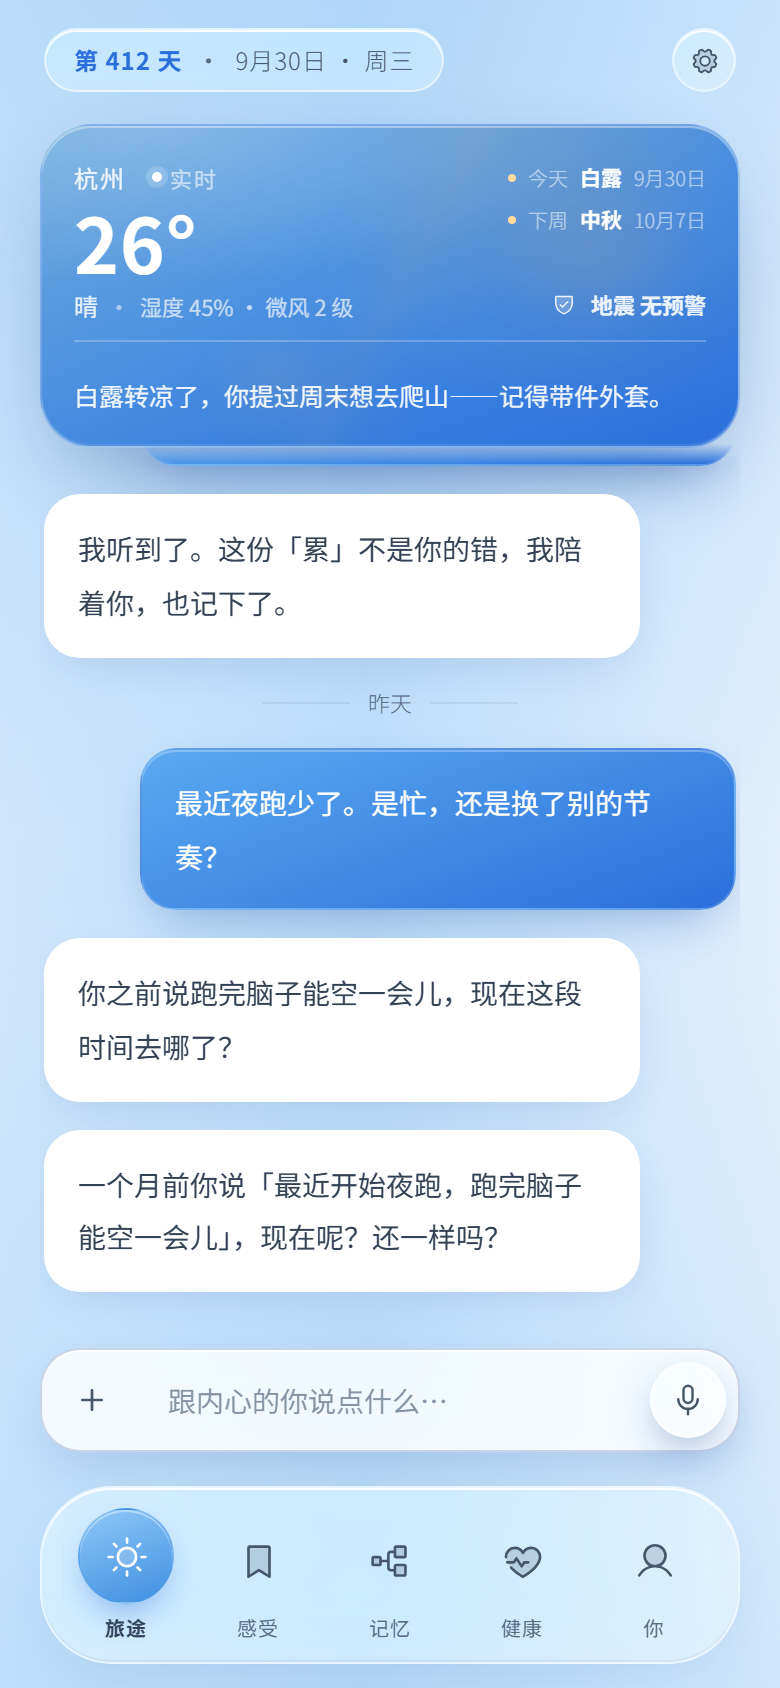
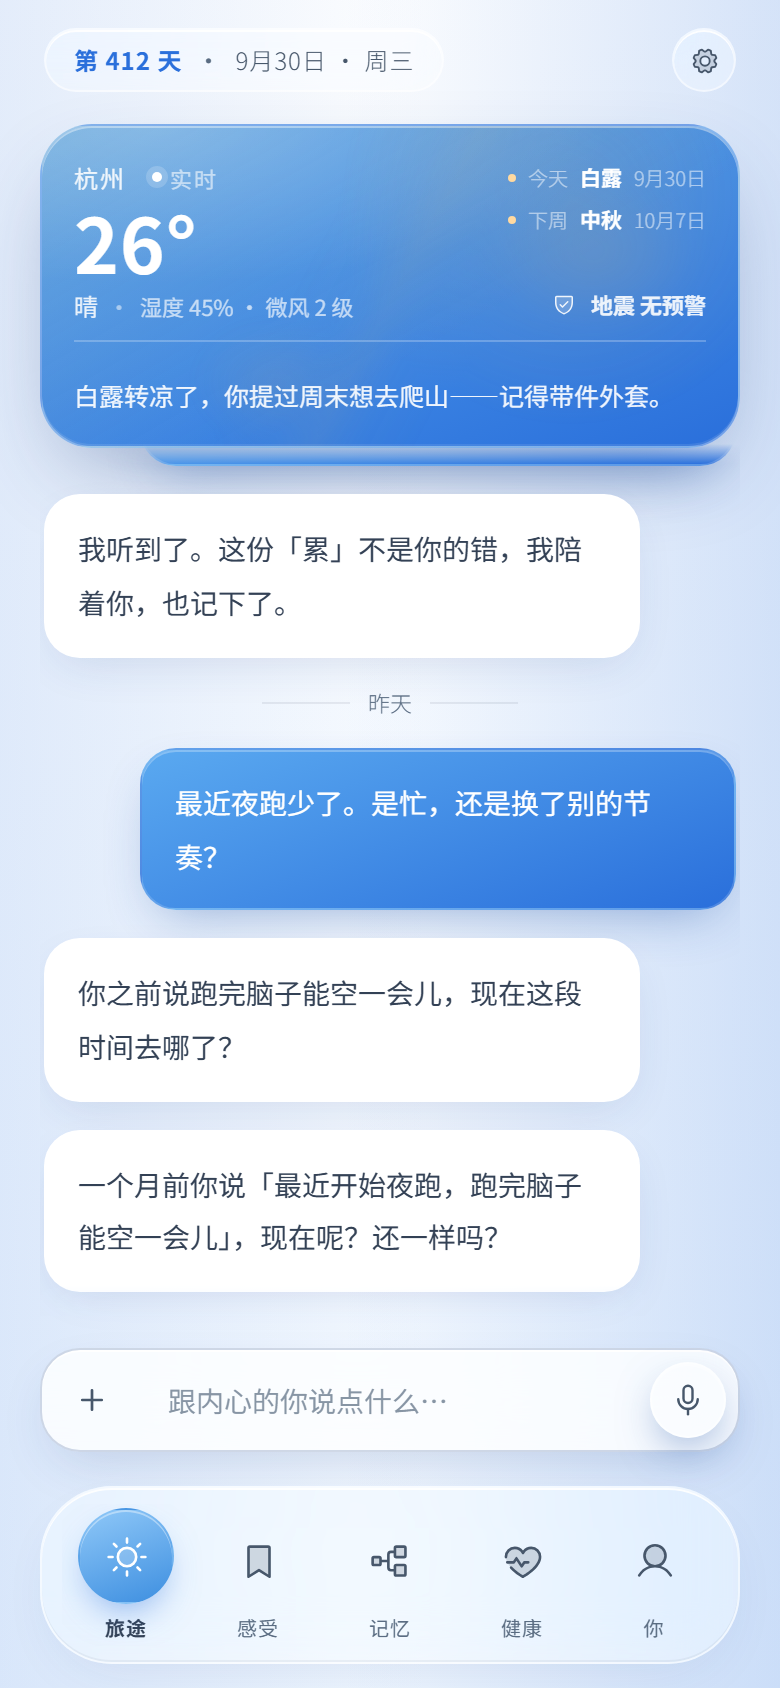
docs: 重拍 9 张截图 + README 重写（图标系统/语音/回到底部/真实数据）

diff --git a/README.md b/README.md
@@ -5,9 +5,9 @@
 > 一个 AI 陪伴式个人档案：每天跟它说说话，它把你的情绪、事件、关系沉淀成一份只属于你的档案。
 
 <p align="center">
-  <img src="docs/screenshots/01-home.png" width="250" alt="今日问候" />
+  <img src="docs/screenshots/01-home.png" width="250" alt="旅途" />
   <img src="docs/screenshots/02-chat.png" width="250" alt="说出你的情绪" />
-  <img src="docs/screenshots/04-mindmap.png" width="250" alt="记忆图谱" />
+  <img src="docs/screenshots/04-mindmap.png" width="250" alt="我懂你多少" />
 </p>
 
 <p align="center">
@@ -19,7 +19,7 @@
   <br /><br />
   <img alt="prototype" src="https://img.shields.io/badge/prototype-single%20file-2A6FDB?style=flat-square" />
   <img alt="deps" src="https://img.shields.io/badge/dependencies-0-4E9F71?style=flat-square" />
-  <img alt="privacy" src="https://img.shields.io/badge/data-local%20only-B7791F?style=flat-square" />
+  <img alt="data" src="https://img.shields.io/badge/data-local%20only-B7791F?style=flat-square" />
   <img alt="license" src="https://img.shields.io/badge/license-MIT-555?style=flat-square" />
 </p>
 
@@ -27,20 +27,20 @@
 
 ## 三十秒看懂
 
-- **它是什么**：一个情绪与记忆档案。打开就是一句「今天过得怎么样？」——低压力地让你开口，而不是扔一张空白表单。
+- **它是什么**：一个情绪与记忆档案。打开就是「第 412 天 · 今天」，低压力地让你开口，而不是扔一张空白表单。
 - **它特别在哪**：不追打卡、不做绩效。它记得你说过的事，也记得**三个月前的你和现在的你不一样**。
-- **它怎么跑**：一个 HTML 文件，双击就开，零依赖、零网络请求，数据只存在你自己的浏览器里。
+- **它怎么跑**：一个 HTML 文件，双击就开，零依赖、零构建；数据只在你自己的浏览器里。
 
 ## 界面
 
 <table>
   <tr>
-    <td align="center"><img src="docs/screenshots/01-home.png" width="180" /><br /><sub><b>今天</b><br />天气 · 今日简报 · 感恩</sub></td>
+    <td align="center"><img src="docs/screenshots/01-home.png" width="180" /><br /><sub><b>旅途</b><br />天气 · 对话 · 语音</sub></td>
     <td align="center"><img src="docs/screenshots/02-chat.png" width="180" /><br /><sub><b>说出你的情绪</b><br />说完还会追问「更准的说法」</sub></td>
     <td align="center"><img src="docs/screenshots/03-feel.png" width="180" /><br /><sub><b>感受</b><br />从记录里长出规律</sub></td>
   </tr>
   <tr>
-    <td align="center"><img src="docs/screenshots/04-mindmap.png" width="180" /><br /><sub><b>记忆图谱</b><br />你告诉我一件事，就长出一个节点</sub></td>
+    <td align="center"><img src="docs/screenshots/04-mindmap.png" width="180" /><br /><sub><b>我懂你多少</b><br />自适应居中，节点带具象图标</sub></td>
     <td align="center"><img src="docs/screenshots/05-sky.png" width="180" /><br /><sub><b>情绪星夜</b><br />说出口的感觉点亮一颗星</sub></td>
     <td align="center"><img src="docs/screenshots/06-settings.png" width="180" /><br /><sub><b>设置</b><br />导师人格 · 自带模型 · 档案</sub></td>
   </tr>
@@ -55,42 +55,49 @@
 
 ## 原型里已有什么
 
-**记录与回访**
+**记录与对话**
 
 | | |
 |---|---|
-| **今日简报** | 每天第一次打开，不等你点，直接把简报推进聊天框（同一天不重复） |
-| **记录会留下** | 聊天 / 情绪 / 洞察写进浏览器本地（`la.messages / la.emotions / la.insights / la.profile`，带 schemaVersion 与迁移），刷新不丢；写不进去会明说「这次记录没存上」 |
-| **时间回访** | 7 天 / 30 天后自动回问一句「三周前你说……现在呢？」 |
-| **沉默也记录** | 连续 5 天没打开，不催不推，只在档案里写一行「这周你来得少，我不问，但记着」 |
+| **今日简报** | 每天第一次打开自动出现，不用点按钮 |
+| **一次只回一条** | 回复是「先接住情绪 + 一句具体引导」，两段合成一条，不刷屏 |
+| **语音消息** | 按住说话（长按输入框也行）；松手后可播放、拖动、丢弃；长按进入的发完自动回键盘，点语音键进入的留在语音模式 |
+| **添加入口** | `+` 弹出毛玻璃菜单：上传图片 / 上传文件 / 拍照 |
+| **回到底部** | 上滑后浮出一个圆形箭头，点一下平滑回底；与撤销条互斥、同位置同高 |
+| **记录会留下** | 聊天 / 情绪 / 洞察写进 localStorage，刷新不丢；写不进去会明说 |
 
-**理解与洞察**
-
-| | |
-|---|---|
-| **情绪粒度** | 说「憋屈」时再追问一句「更准的说法」——憋屈 / 不甘 / 被忽视 / 心里堵…共 144 词，选中即改写这次记录 |
-| **双时间戳** | 图谱节点挂着「3 个月」：点开看「当时的我 vs 现在的我」，首条与最近一条说法并排 |
-| **跨节点洞察** | 情绪桶 × 反复出现的话题交叉——「你反复提的工作，和你最近的低落，可能不是两件事」 |
-| **信念矛盾** | 发现「上个月说喜欢 X、这周说讨厌 X」，把变化摆出来请你确认，并标注证据条数与把握度 |
-| **自我距离化** | 反刍时引导「如果是你朋友坐在对面，你会怎么跟他说」 |
-| **CBT 思维陷阱** | 温和点出「灾难化 / 以偏概全 / 读心」，给一个更平衡的说法（同会话最多 2 次，不说教） |
-
-**回望与仪式**
+**理解与回望**
 
 | | |
 |---|---|
-| **导师人格** | 复盘信可选斯多葛 / 温柔教练 / 犀利诤友，同一周记录三种语气（Mindsera 做法） |
-| **周复盘信** | 周日 20:00 后第一次打开，把本周 5~10 条记录合成一段回望，不用模型 |
-| **年度报告** | Spotify Wrapped 式的一年：说过多少句、来过多少天、落下几颗星、第一次开口是哪天 |
-| **时间胶囊** | 写给一年后的自己，封存 365 天，到点解锁 |
-| **感恩练习** | 今日简报里一条「今天让你感激的一件小事」，写下来就存进档案 |
-| **危机保护** | 检测到自伤 / 危机表达时，给求助热线，不装心理咨询师 |
+| **情绪粒度** | 说「憋屈」时再追问一句「更准的说法」——144 词按四象限组织，选中即改写记录 |
+| **双时间戳** | 图谱节点挂着「3 个月」：点开看「当时的我 vs 现在的我」 |
+| **跨节点洞察** | 情绪桶 × 反复出现的话题交叉，主动说「你反复提的工作，和你最近的低落，可能不是两件事」 |
+| **信念矛盾** | 发现「上个月说喜欢 X、这周说讨厌 X」，把变化摆出来，标注证据条数与把握度 |
+| **自我距离化 + CBT** | 反刍时引导「如果是你朋友坐在对面」，并温和点出灾难化 / 以偏概全 |
+| **导师人格** | 斯多葛 / 温柔教练 / 犀利诤友，同一周记录三种语气 |
+| **周复盘信** | 周日 20:00 后第一次打开，把本周记录合成一段回望 |
+| **沉默也记录** | 连续 5 天没打开，不催不推，只在档案里写一行 |
+| **年度报告 + 时间胶囊** | Wrapped 式一年统计；写给一年后的自己，365 天解锁 |
+| **感恩练习** | 今日简报里一条「今天让你感激的一件小事」 |
 
-**自带模型（可选）**
+**真实数据**
 
-选服务商 → Key 前缀认厂商 → 接口地址与模型自动带出 → 「测试连接」可验证；下方有「余额 + 调用次数」。只用于复盘这类生成型内容，**对话永远走本机规则**；无配置 / 401 / 跨域 / 超时都会回落本地模板。
+| | |
+|---|---|
+| **地震提醒** | 轮询 USGS 实时目录（中国区域，M≥4，近 24 小时），命中新震时在聊天里推一条，并在已授权时弹系统通知 |
+| **为什么不是 CENC** | 中国地震台网官网是 React SPA，没有可直接跨域调用的公开接口；要接 CENC 需服务端代理（工程版做这层）。原型先用 USGS 保证是真实数据 |
 
-> **低配 / 排查画面闪烁**：地址后加 `?lite=1` 会关掉毛玻璃与动效。
+> **关于联网**：原型只有地震这一处会发网络请求；对话、情绪、洞察、复盘全部在本机完成。
+> **关于通知**：`new Notification()` 只在页面打开时生效；锁屏/后台推送需要 PWA + Service Worker + 推送服务器，已列入待办。
+
+## 图标与视觉
+
+- **图标**：62 个 Phosphor Duotone（MIT）内联 SVG，按内容分蓝 / 沙绿 / 琥珀三档
+- **语义映射**：`Icons.forText()` 按关键词命中——夜跑→跑步、学吉他→吉他、法语→书、有点累→心碎
+- **统一容器**：观察卡 / 状态卡 / 我记得的事，图标容器一律 40px 蓝调方块
+- **零 emoji**：全站已清掉 emoji，只保留 `✓ ✕ ★` 这类几何符号
+- **玻璃**：`backdrop-filter` + 半透明白 + 顶部高光，浮层与内容之间用 10~32px 的渐隐过渡
 
 ## 设计思路（这个项目的真正主角）
 
@@ -100,13 +107,13 @@
 
 **三个差异化方向**（完整清单见 [灵感tips.txt](灵感tips.txt)）：
 
-1. **情绪粒度训练（Mood Meter）**——把「难受」精确到「憋屈 / 不甘 / 被忽视」（耶鲁 RULER 框架 144 词）。情绪命名越准，档案越懂你
+1. **情绪粒度训练（Mood Meter）**——把「难受」精确到「憋屈 / 不甘 / 被忽视」（耶鲁 RULER 框架 144 词）
 2. **双时间戳**——能看见「三个月前我为 X 焦虑、现在已释然」，竞品都没有
 3. **「你可能没意识到」**——跨节点推理，把「记忆」升级为「洞察」
 
-**设计系统**：冰川记忆——冰川蓝品牌色 + 四色情绪星（烦躁红 / 微暖琥珀 / 青绿 / 冰川蓝），令牌来自设计稿（见 `ui-refs/`）。界面只保留左上角胶囊作为页面名，大标题与解释性副标题一律删掉——内容自己说话。
+**设计系统**：冰川记忆——冰川蓝品牌色 + 四色情绪星（烦躁红 / 微暖琥珀 / 青绿 / 冰川蓝）。界面只保留左上角胶囊作为页面名，大标题与解释性副标题一律删掉——内容自己说话。
 
-**参考与致敬**：How We Feel（Mood Meter）、Zep Graphiti（双时间戳）、Mindsera（导师人格）、Woebot（CBT 温和提示）、Ethan Kross（自我距离化）。
+**参考与致敬**：How We Feel（Mood Meter）、Zep Graphiti（双时间戳）、Mindsera（导师人格）、Woebot（CBT 温和提示）、Ethan Kross（自我距离化）、Bencho（语音条，MIT）。
 
 ## 工程版
 
@@ -117,9 +124,9 @@
 | 移动端 | **uni-app x**（VDOM 模式）——iOS / Android / HarmonyOS NEXT 同源 |
 | 后端 | **NestJS 10** + Prisma 6 + **PostgreSQL 16**，REST + OpenAPI |
 | 认证 | JWT Access (15 min) + Refresh (7 d)，轮换 + 重放检测 |
-| 隐私 | 首启同意弹窗，未同意前零采集；洞察用本地 RULER 词表，不接 LLM |
+| 隐私 | 首启同意弹窗，未同意前零采集 |
 
-三条由门禁强制执行的硬规则：业务源码不进仓库根、业务代码零 `#ifdef`（平台差异集中在 `frontend/core/platform/`）、仓库内零真实密钥（`scripts/check-secrets.mjs` 泄漏即失败）。
+三条由门禁强制执行的硬规则：业务源码不进仓库根、业务代码零 `#ifdef`、仓库内零真实密钥。
 
 ## 项目结构
 
@@ -139,17 +146,15 @@
 
 ## 路线图
 
-- [x] 概念原型：每日一问 / 说出你的情绪 / 情绪星夜 / 记忆图谱 / 身体信号 / 自带模型（历经 90+ 版迭代）
-- [x] 三端工程骨架：uni-app x + NestJS
-- [x] 情绪粒度训练：Mood Meter 144 词（四象限中文词表）
-- [x] 记忆时间轴：双时间戳（当时的我 vs 现在的我）
-- [x] 跨节点洞察：情绪桶 × 话题交叉（你可能没意识到）
-- [x] 自我距离化 + CBT 思维陷阱识别
-- [x] 感恩练习（晨间简报）
-- [x] 导师人格 / 信念矛盾 / 周复盘信 / 沉默也记录
-- [x] 年度报告 + 时间胶囊（365 天解锁）
-- [ ] 遗忘仪式：把过期烦恼「送走」
-- [ ] 情绪粒度词表与耶鲁 RULER 原表逐条对齐
+- [x] 概念原型：每日一问 / 情绪 / 星夜 / 图谱 / 身体信号 / 自带模型（110+ 版迭代）
+- [x] 情绪粒度 144 词 · 双时间戳 · 跨节点洞察 · 自我距离化 + CBT
+- [x] 导师人格 / 信念矛盾 / 周复盘信 / 沉默也记录 / 年度报告 + 时间胶囊
+- [x] 全站去 emoji，换成 62 个具象图标 + 语义映射
+- [x] 语音消息、`+` 菜单、回到底部、撤销条让位
+- [x] 地震提醒接真实数据（USGS）
+- [ ] 后台推送（PWA + Service Worker + 推送服务器）
+- [ ] CENC 服务端代理
+- [ ] 观察卡与图谱改成数据驱动（当前仍是静态样板）
 
 ## License
 
